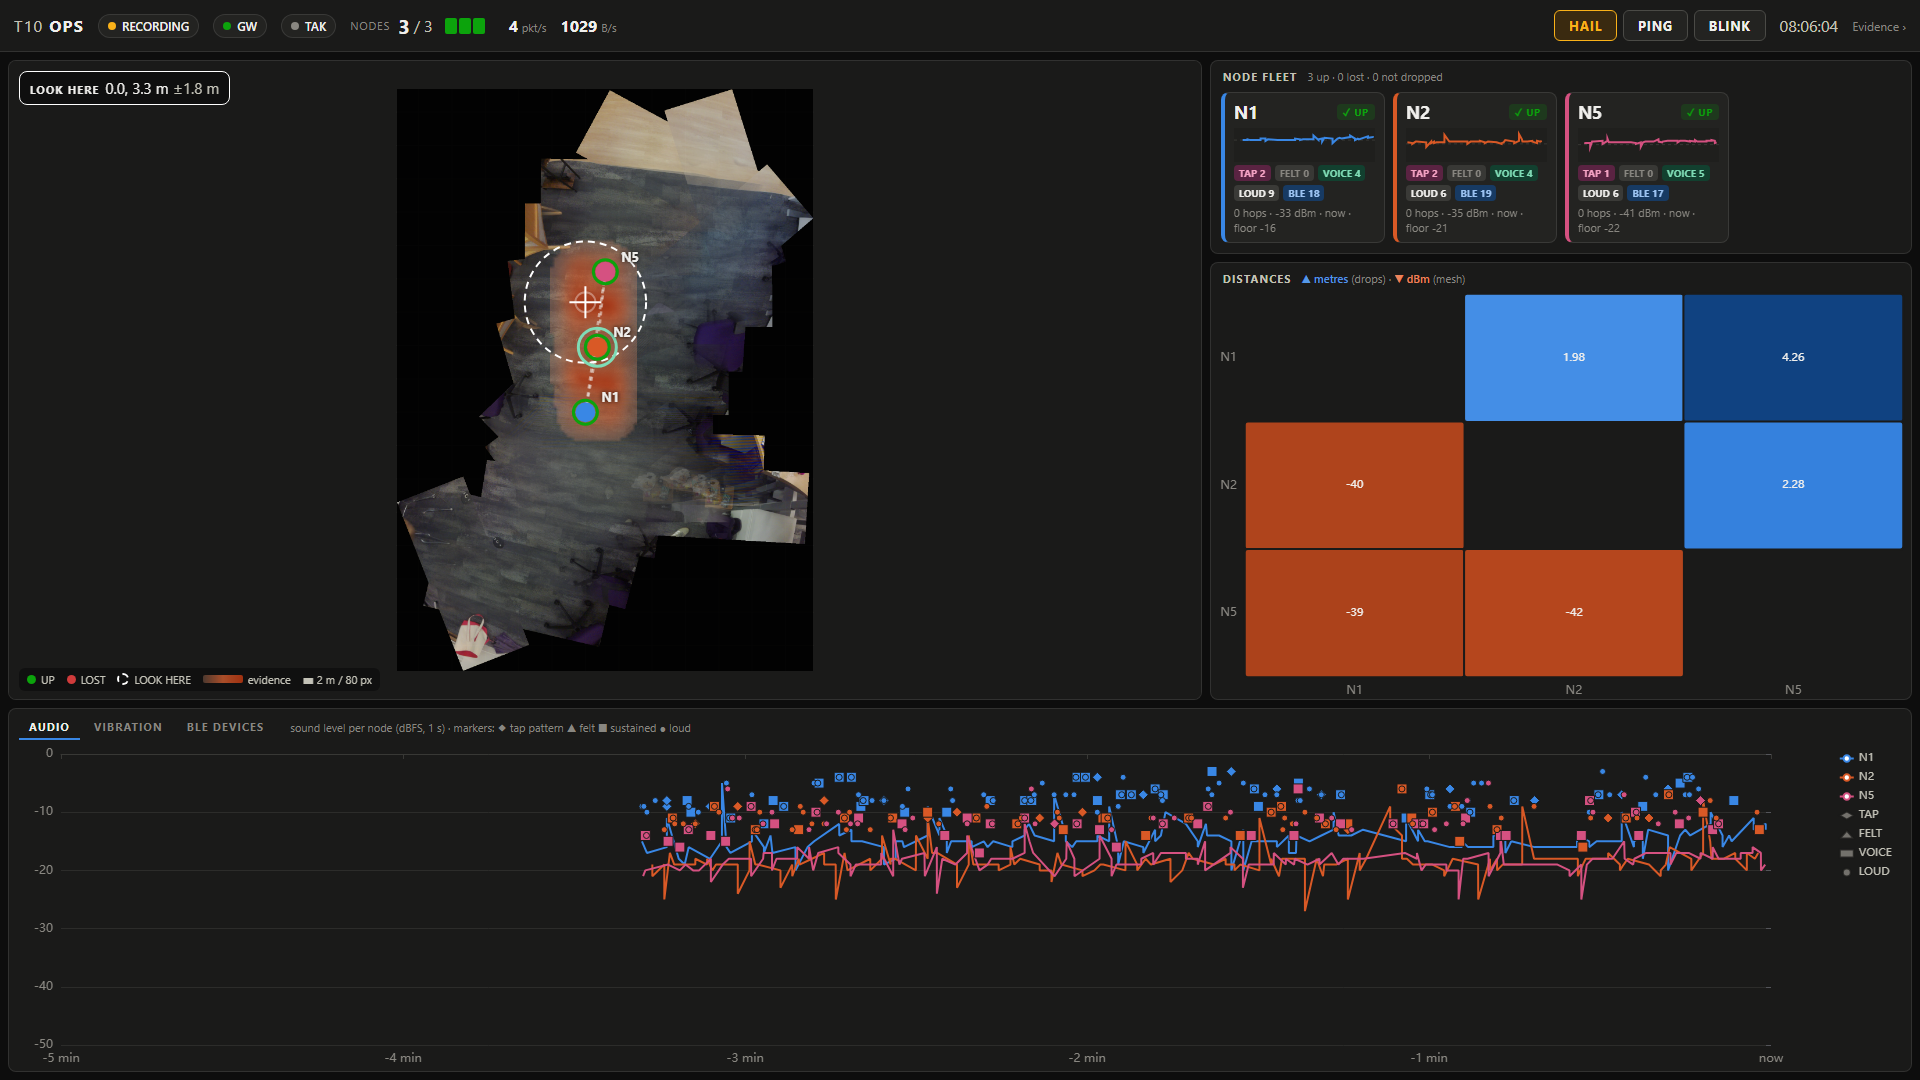
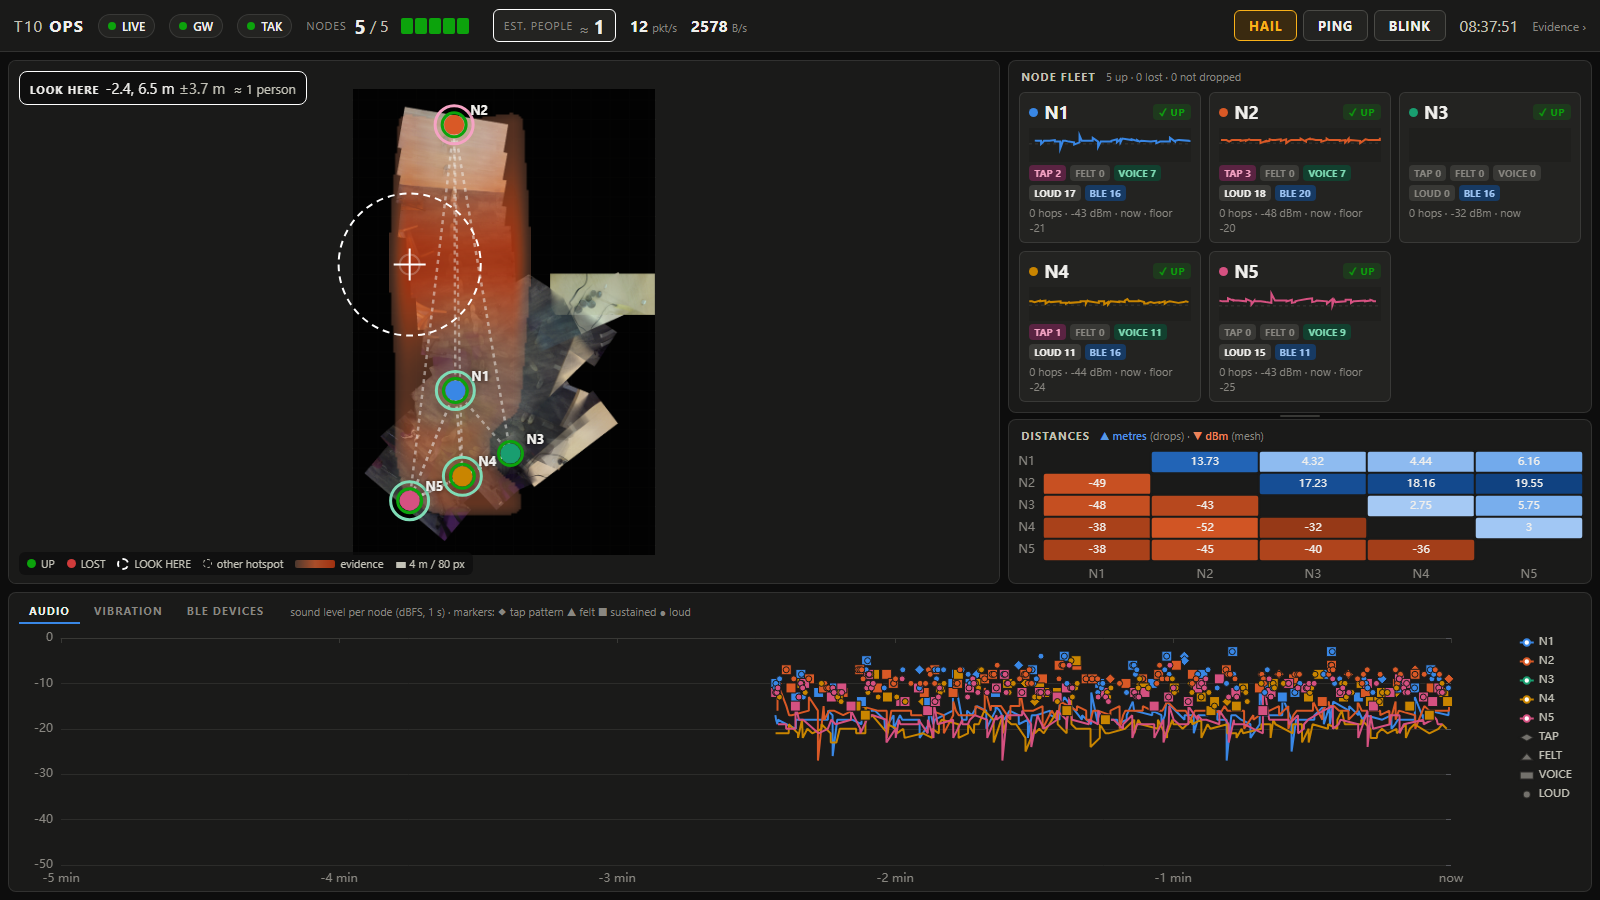
Ops dashboard: rough people estimate (separate hotspots), resizable fleet/matrix, plainer node cards

diff --git a/ui/ops.js b/ui/ops.js
@@ -52,6 +52,13 @@
     $("n-bar").innerHTML = d.dropped.map(i =>
       `<i class="${d.operational.includes(i) ? "ok" : "bad"}" title="N${i} ${d.operational.includes(i) ? "up" : "lost"}"></i>`).join("");
     $("n-extra").textContent = d.heard_not_dropped.length ? `+${d.heard_not_dropped.length} not dropped` : "";
+    // null while the room background is being learned; shown as the median of the last 10 s so it doesn't flicker
+    const raw = d.heat ? d.heat.people_est : 0;
+    st.ppl = raw == null ? [] : (st.ppl || []).concat(raw).slice(-10);
+    const ppl = raw == null ? null : st.ppl.slice().sort((a, b) => a - b)[Math.floor(st.ppl.length / 2)];
+    st.pplShown = ppl;
+    $("ppl").textContent = ppl == null ? "…" : ppl;
+    $("people").classList.toggle("on", ppl > 0);
     $("pps").textContent = d.packets_per_s;
     $("bps").textContent = d.bytes_per_s;
     $("clock").textContent = new Date(d.t * 1000).toLocaleTimeString([], { hour12: false });
@@ -192,6 +199,15 @@
       ctx.beginPath(); ctx.moveTo(cx - 16 * dpr, cy); ctx.lineTo(cx + 16 * dpr, cy); ctx.moveTo(cx, cy - 16 * dpr); ctx.lineTo(cx, cy + 16 * dpr); ctx.stroke();
     }
 
+    // other hotspots (each counts toward EST. PEOPLE): smaller dashed rings
+    ((h && h.people_est && h.sources) || []).slice(1).forEach((q, k) => {
+      const cx = X(q.x), cy = Y(q.y);
+      ctx.strokeStyle = INK2; ctx.lineWidth = 1.5 * dpr; ctx.setLineDash([5 * dpr, 4 * dpr]);
+      ctx.beginPath(); ctx.arc(cx, cy, 13 * dpr, 0, 7); ctx.stroke(); ctx.setLineDash([]);
+      ctx.font = `700 ${11 * dpr}px system-ui, sans-serif`; ctx.fillStyle = INK2; ctx.textAlign = "center";
+      ctx.fillText(String(k + 2), cx, cy + 4 * dpr); ctx.textAlign = "start";
+    });
+
     // nodes: identity colour fill, status ring, flash ring on a fresh cue
     st.hit = [];
     const now = d.t;
@@ -219,7 +235,11 @@
 
     // overlay pills
     $("look").hidden = !pk;
-    if (pk) $("look").innerHTML = `<b>LOOK HERE</b>${pk.x.toFixed(1)}, ${pk.y.toFixed(1)} m<span class="unc">±${pk.radius.toFixed(1)} m</span>`;
+    if (pk) {
+      const n = st.pplShown;
+      $("look").innerHTML = `<b>LOOK HERE</b>${pk.x.toFixed(1)}, ${pk.y.toFixed(1)} m<span class="unc">±${pk.radius.toFixed(1)} m</span>` +
+        (n ? `<span class="ppl">≈ ${n} ${n === 1 ? "person" : "people"}</span>` : "");
+    }
     const ha = h && h.hail_age;
     $("hail").hidden = ha == null;
     if (ha != null) {
@@ -255,7 +275,7 @@
     if (box.dataset.key !== key) {
       box.dataset.key = key;
       box.innerHTML = order.map(n => `<div class="tile" data-id="${n.id}" style="--c:${colorOf(n.id)}">
-        <div class="t-head"><span class="id">N${n.id}</span><span class="st"></span></div>
+        <div class="t-head"><i class="sw"></i><span class="id">N${n.id}</span><span class="st"></span></div>
         <canvas class="spark"></canvas>
         <div class="cues"></div><div class="t-foot"></div></div>`).join("") ||
         `<p class="muted">No nodes heard yet.</p>`;
@@ -405,6 +425,28 @@
     $("tabnote").textContent = note;
     sx.setOption(opt, { notMerge: true });
   }
+
+  // ---------------------------------------------------------------- fleet / matrix splitter (remembered per browser)
+  const mainEl = document.querySelector("main"), fleetEl = $("fleet");
+  function setFleetH(px) {
+    if (px == null) { mainEl.style.removeProperty("--fleet-h"); mainEl.classList.remove("sized"); }
+    else { mainEl.style.setProperty("--fleet-h", px + "px"); mainEl.classList.add("sized"); }
+    mx.resize();
+  }
+  try { const v = +localStorage.getItem("t10_fleet_h"); if (v) setFleetH(v); } catch (e) { /* no storage */ }
+  $("split").addEventListener("pointerdown", e => {
+    e.preventDefault();
+    const top = fleetEl.getBoundingClientRect().top, mapB = $("map").getBoundingClientRect().bottom;
+    document.body.classList.add("dragging");
+    const move = ev => setFleetH(Math.round(Math.max(90, Math.min(ev.clientY - top, mapB - top - 160))));
+    const up = () => {
+      document.body.classList.remove("dragging");
+      window.removeEventListener("pointermove", move); window.removeEventListener("pointerup", up);
+      try { localStorage.setItem("t10_fleet_h", parseInt(mainEl.style.getPropertyValue("--fleet-h")) || ""); } catch (e) { /* ignore */ }
+    };
+    window.addEventListener("pointermove", move); window.addEventListener("pointerup", up);
+  });
+  $("split").addEventListener("dblclick", () => { setFleetH(null); try { localStorage.removeItem("t10_fleet_h"); } catch (e) { /* ignore */ } });
 
   window.addEventListener("resize", () => { mx.resize(); sx.resize(); drawMap(); if (st.d) tiles(st.d, true); });
 })();

diff --git a/ui/ops.css b/ui/ops.css
@@ -48,6 +48,12 @@ button { font: inherit; cursor: pointer; }
 #n-bar i.ok { background: var(--good); }
 #n-bar i.bad { background: var(--critical); }
 #n-extra { margin-left: 6px; font-size: 12px; }
+.people { display: flex; align-items: center; gap: 6px; padding: 2px 10px; border-radius: 6px;
+  background: var(--surface-2); border: 1px solid var(--ring); cursor: help; }
+.people .lbl { color: var(--muted); font-size: 11px; letter-spacing: .08em; }
+.people b { font-size: 20px; font-variant-numeric: tabular-nums; }
+.people b::before { content: "≈ "; font-weight: 400; color: var(--muted); font-size: 15px; }
+.people.on { border-color: #fff; }
 .kpi { display: flex; align-items: baseline; gap: 4px; }
 .kpi b { font-size: 16px; font-variant-numeric: tabular-nums; }
 .kpi span { color: var(--muted); font-size: 11px; }
@@ -65,8 +71,10 @@ button { font: inherit; cursor: pointer; }
 main {
   display: grid; gap: 8px; padding: 8px; min-height: 0;
   grid-template-columns: minmax(0, 1.7fr) minmax(330px, 1fr);
-  grid-template-rows: auto minmax(0, 1fr) 36%;  /* fleet sized to its tiles; the matrix takes the rest */
-  grid-template-areas: "map fleet" "map matrix" "sens sens";
+  /* fleet sized to its tiles (or dragged, --fleet-h); the matrix takes the rest */
+  grid-template-rows: var(--fleet-h, auto) 6px minmax(140px, 1fr) 36%;
+  grid-template-areas: "map fleet" "map split" "map matrix" "sens sens";
+  row-gap: 0;
 }
 .panel { background: var(--surface); border: 1px solid var(--ring); border-radius: 8px; min-height: 0; min-width: 0;
   position: relative; display: flex; flex-direction: column; overflow: hidden; }
@@ -76,7 +84,15 @@ main {
 .panel h2 b.d { color: #ec835a; font-weight: 600; }
 .chart { flex: 1; min-height: 0; }
 #map { grid-area: map; }
-#fleet { grid-area: fleet; max-height: 46vh; }
+#fleet { grid-area: fleet; max-height: 46vh; min-height: 90px; }
+main.sized #fleet { max-height: none; }
+#map { margin-bottom: 8px; }
+#split { grid-area: split; cursor: row-resize; position: relative; }
+#split::after { content: ""; position: absolute; left: 50%; top: 2px; width: 40px; height: 2px; margin-left: -20px;
+  border-radius: 1px; background: var(--axis); }
+#split:hover::after, body.dragging #split::after { background: var(--ink-2); }
+body.dragging { cursor: row-resize; user-select: none; }
+#matrix { margin-bottom: 8px; }
 #matrix { grid-area: matrix; }
 #sensors { grid-area: sens; }
 
@@ -97,17 +113,19 @@ main {
 .dot { width: 9px; height: 9px; border-radius: 50%; display: inline-block; }
 .dot.ok { background: var(--good); } .dot.bad { background: var(--critical); }
 .ring { width: 12px; height: 12px; border-radius: 50%; border: 2px dashed #fff; display: inline-block; }
+.ring.small { width: 9px; height: 9px; border: 1.5px dashed var(--ink-2); }
+.pill.look .ppl { color: var(--ink-2); margin-left: 8px; font-size: 13px; }
 .heatkey { width: 40px; height: 8px; border-radius: 2px; display: inline-block;
   background: linear-gradient(90deg, rgba(255, 176, 138, .25), rgba(235, 104, 52, .7), rgba(176, 52, 16, .9)); }
 
 /* ---- fleet tiles ---- */
 #tiles { flex: 1; overflow-y: auto; padding: 4px 10px 10px; display: grid; gap: 8px;
   grid-template-columns: repeat(auto-fill, minmax(150px, 1fr)); align-content: start; }
-.tile { background: var(--surface-2); border: 1px solid var(--ring); border-radius: 8px; padding: 7px 9px; cursor: pointer;
-  border-left: 4px solid var(--c); }
+.tile { background: var(--surface-2); border: 1px solid var(--ring); border-radius: 6px; padding: 7px 9px; cursor: pointer; }
+.t-head .sw { width: 9px; height: 9px; border-radius: 50%; background: var(--c); flex: none; }
 .tile.sel { outline: 2px solid var(--ink); }
 .tile.lost { opacity: .75; }
-.tile.ghost { border-style: dashed; border-left-style: solid; opacity: .7; }
+.tile.ghost { border-style: dashed; opacity: .7; }
 .t-head { display: flex; align-items: center; gap: 6px; }
 .t-head .id { font-size: 18px; font-weight: 700; }
 .st { font-size: 10px; font-weight: 700; letter-spacing: .06em; padding: 1px 6px; border-radius: 4px; margin-left: auto; }
@@ -138,5 +156,6 @@ main {
 @media (max-width: 1100px) {
   body { overflow: auto; }
   main { grid-template-columns: 1fr; grid-template-rows: 60vh auto 280px 320px;
-    grid-template-areas: "map" "fleet" "matrix" "sens"; }
+    grid-template-areas: "map" "fleet" "matrix" "sens"; row-gap: 8px; }
+  #split { display: none; }
 }

diff --git a/ui/ops.html b/ui/ops.html
@@ -17,6 +17,7 @@
       <span class="lbl">NODES</span><b id="n-up">0</b><span class="of">/</span><span id="n-drop">0</span>
       <div id="n-bar"></div><span id="n-extra" class="muted"></span>
     </div>
+    <div class="people" id="people" title="Rough estimate: separate evidence hotspots on the map. Not a headcount."><span class="lbl">EST. PEOPLE</span><b id="ppl">0</b></div>
     <div class="kpi"><b id="pps">0</b><span>pkt/s</span></div>
     <div class="kpi"><b id="bps">0</b><span>B/s</span></div>
     <div class="cmds">
@@ -38,7 +39,7 @@
       </div>
       <div class="ovl bl legend">
         <span><i class="dot ok"></i>UP</span><span><i class="dot bad"></i>LOST</span>
-        <span><i class="ring"></i>LOOK HERE</span><span><i class="heatkey"></i>evidence</span>
+        <span><i class="ring"></i>LOOK HERE</span><span><i class="ring small"></i>other hotspot</span><span><i class="heatkey"></i>evidence</span>
         <span id="scale"></span>
       </div>
     </section>
@@ -47,6 +48,8 @@
       <h2>NODE FLEET <span class="muted" id="fleet-sub"></span></h2>
       <div id="tiles"></div>
     </section>
+
+    <div id="split" title="Drag to resize · double-click to reset"></div>
 
     <section id="matrix" class="panel">
       <h2>DISTANCES <span class="muted"><b class="m">▲ metres</b> (drops) · <b class="d">▼ dBm</b> (mesh)</span></h2>

diff --git a/fusion/heatmap.py b/fusion/heatmap.py
@@ -67,6 +67,11 @@ ALIVE_S = 6.0
 KIND_W = {"TAP_PATTERN": 1.0, "VIBRATION": 1.0, "LOUD": 0.3, "VOICE_LIKE": 0.2}
 SNR_LO, SNR_HI = 8.0, 20.0     # mic-only weight ramps from 0.1 at 8 dB over floor to 1.0 at 20 dB
 OUTSIDE_SIGMA_M = 0.5          # prior: sources are inside the area the nodes were dropped around
+# Rough people count = separate evidence hotspots: local maxima (within LOCAL_M) at least HOT_FRAC of the main
+# peak, at least SEP_M from a stronger one, AND with a valley between them (the heat on the straight line between
+# the two dips below VALLEY_FRAC of the weaker one). A broad blob or a ridge counts once; two tappers ~1.5 m+
+# apart count twice. Not reported while the room background is still being learned (warm-up).
+LOCAL_M, HOT_FRAC, SEP_M, VALLEY_FRAC = 0.5, 0.5, 1.5, 0.6
 HAIL_REPLY = (3.5, 13.5)  # seconds after HAIL: node blanking ends ~3.5 s, listen ~10 s
 HAIL_BOOST = 2.0
 
@@ -241,6 +246,8 @@ class Fusion:
                 spread = float(np.sqrt(((self.gx[X] - self.gx[ix]) ** 2 + (self.gy[Y] - self.gy[iy]) ** 2).mean()))
                 peak = {"x": round(float(self.gx[ix]), 2), "y": round(float(self.gy[iy]), 2),
                         "strength": round(hmax, 2), "radius": round(max(spread, GRID_M), 2)}
+            warm = self.use_bg and (now - self.started) < BG_HALF_LIFE_S
+            sources = self._hotspots(h, hmax) if peak else []
             gain = self.gains()
             hail_age = (now - self.hail_t) if self.hail_t else None
             return {
@@ -248,6 +255,7 @@ class Fusion:
                 "nx": len(self.gx), "ny": len(self.gy),
                 "heat": np.round(h / hmax, 3).ravel().tolist() if hmax > 0 else [],
                 "hmax": round(hmax, 3), "peak": peak,
+                "sources": sources, "people_est": None if warm else len(sources),
                 "nodes": [{"id": i, "x": float(p[0]), "y": float(p[1]), "alive": self.alive(i, now),
                            "floor": self.nodes[i]["floor"], "gain": round(gain[i], 1),
                            "rssi": self.nodes[i]["rssi"], "hops": self.nodes[i]["hops"],
@@ -258,6 +266,32 @@ class Fusion:
                 "unknown": sorted(i for i, t in self.unknown.items() if now - t < ALIVE_S),  # heard, not placed
                 "warmup": round(max(0.0, BG_HALF_LIFE_S - (now - self.started))) if self.use_bg else 0,
             }
+
+    def _hotspots(self, h, hmax):
+        """Separate evidence hotspots, strongest first: [{"x", "y", "strength"}] (strength relative to the peak)."""
+        k = max(1, int(round(LOCAL_M / GRID_M)))
+        p = np.pad(h, k, constant_values=0.0)
+        local = np.zeros_like(h)
+        for dy in range(2 * k + 1):  # maximum filter by shifted copies (no scipy)
+            for dx in range(2 * k + 1):
+                np.maximum(local, p[dy:dy + h.shape[0], dx:dx + h.shape[1]], out=local)
+        Y, X = np.nonzero((h >= local) & (h >= HOT_FRAC * hmax))
+        picked = []  # (row, col)
+        for i in np.argsort(-h[Y, X]):
+            r, c = int(Y[i]), int(X[i])
+            if all(self._separate(h, (r, c), q) for q in picked):
+                picked.append((r, c))
+        return [{"x": round(float(self.gx[c]), 2), "y": round(float(self.gy[r]), 2),
+                 "strength": round(float(h[r, c] / hmax), 2)} for r, c in picked]
+
+    def _separate(self, h, a, b):
+        """Far enough apart, with a valley between: two hotspots, not one blob or ridge."""
+        if ((a[0] - b[0]) ** 2 + (a[1] - b[1]) ** 2) * GRID_M ** 2 < SEP_M ** 2:
+            return False
+        n = max(abs(a[0] - b[0]), abs(a[1] - b[1])) + 1
+        rows = np.rint(np.linspace(a[0], b[0], n)).astype(int)
+        cols = np.rint(np.linspace(a[1], b[1], n)).astype(int)
+        return float(h[rows, cols].min()) < VALLEY_FRAC * min(float(h[a]), float(h[b]))
 
     def reset(self):
         with self.lock:

diff --git a/tests/test_ops.py b/tests/test_ops.py
@@ -77,7 +77,39 @@ class OpsPictureTest(unittest.TestCase):
         d = client.get("/ops").json()
         self.assertEqual(d["operational"], [1])
         self.assertEqual(d["history"]["1"]["audio"][0][1], -20)
-        self.assertEqual(sorted(d["heat"]), sorted(["bounds", "res", "nx", "ny", "heat", "peak", "hail_age", "warmup"]))
+        self.assertEqual(sorted(d["heat"]), sorted(["bounds", "res", "nx", "ny", "heat", "peak", "sources", "people_est",
+                                                    "hail_age", "warmup"]))
+
+
+class PeopleEstimateTest(unittest.TestCase):
+    """EST. PEOPLE = separate evidence hotspots (rough): broad blobs count once, close or weak spots don't add."""
+
+    def heat(self, *blobs):
+        import numpy as np
+
+        from fusion.heatmap import Fusion
+
+        f = Fusion({1: (0, 0), 2: (4, 0), 3: (0, 4)}, use_bg=False)
+        X, Y = np.meshgrid(f.gx, f.gy)
+        f.heat = sum(a * np.exp(-((X - x) ** 2 + (Y - y) ** 2) / (2 * s * s)) for a, x, y, s in blobs)
+        return f.snapshot(0)
+
+    def test_counts(self):
+        two = self.heat((2.0, 1, 1, 0.6), (1.6, 3.5, 3, 0.6))
+        self.assertEqual(two["people_est"], 2)
+        self.assertEqual((two["sources"][0]["x"], two["sources"][0]["y"]), (two["peak"]["x"], two["peak"]["y"]))
+        self.assertEqual(self.heat((2.0, 1, 1, 1.5))["people_est"], 1)                     # one broad blob
+        self.assertEqual(self.heat((2.0, 1, 1, 0.6), (1.8, 1.8, 1, 0.6))["people_est"], 1)  # 0.8 m apart: one
+        self.assertEqual(self.heat((2.0, 1, 1, 0.6), (0.5, 3.5, 3, 0.6))["people_est"], 1)  # weak second
+        self.assertEqual(self.heat((0.0, 1, 1, 0.6))["people_est"], 0)                     # nothing
+        ridge = [(1.0 + 0.15 * (k % 2), 0, k * 0.5, 1.2) for k in range(9)]               # bumpy ridge (spread-out nodes)
+        self.assertEqual(self.heat(*ridge)["people_est"], 1)
+
+    def test_not_reported_while_learning_the_room(self):
+        from fusion.heatmap import Fusion
+
+        f = Fusion({1: (0, 0), 2: (4, 0)})
+        self.assertIsNone(f.snapshot(f.started + 5)["people_est"])
 
 
 class RoutesTest(unittest.TestCase):

diff --git a/fusion/server.py b/fusion/server.py
@@ -452,7 +452,7 @@ def main(argv=None):
     return 0
 
 
-HEAT_KEYS = ("bounds", "res", "nx", "ny", "heat", "peak", "hail_age", "warmup")
+HEAT_KEYS = ("bounds", "res", "nx", "ny", "heat", "peak", "sources", "people_est", "hail_age", "warmup")
 
 
 def build_ops(snap, heat, positions, series, mosaic_url, now_ms):

diff --git a/docs/DECISIONS.md b/docs/DECISIONS.md
@@ -53,6 +53,7 @@ One line per decision: date/time, decision, why. Newest at the bottom.
 - 2026-11-08 ~07:10: **Node callsigns stay fixed ("T10 N2", "T10 N2 LOST"); the last cue goes in the remarks.** Why: PR #14 changed the callsign per cue (TAP/VOICE/FELT), and every change re-sends the marker, which is what crashes WinTAK when a details pane is open.
 - 2026-11-08 ~07:10: **HAIL/PING/BLINK are refused (409) while the gateway is unplugged, so nothing is queued to go out late.** Why: a HAIL sent minutes late beeps at the wrong time and corrupts the heatmap's HAIL-reply window.
 - 2026-11-08 ~08:10: **Ops dashboard at `/` (`ui/ops.html`, data from `GET /ops`); the evidence review page moved to `/review`.** One screen, usable alongside or instead of WinTAK: the heatmap over the camera map is the main panel, plus node fleet tiles (operational / dropped, audio sparkline, cue counts), a node-distance matrix (metres from drops above the diagonal, mesh dBm below) and Audio / Vibration / BLE graphs over the last 5 min (`fusion/history.py`). HAIL/PING/BLINK only; drops stay on the camera and heatmap pages. Why: the operator needs graphics and short numbers at a glance; the review page stays for drilling into one observation.
+- 2026-11-08 ~08:40: **Rough people estimate (EST. PEOPLE) = separate evidence hotspots on the heatmap**: local maxima ≥ 50% of the main peak, ≥ 1.5 m apart, with a valley between them (the heat on the line between dips below 60% of the weaker). Not reported during the 2 min background warm-up; the dashboard shows the median of the last 10 s. Why: responders want to know roughly how many to expect. The first version (no valley test) said 5 on a live floor because a ridge between far-apart nodes had several bumps; with the valley test the same floor reads 1–2. It is a hotspot count, not a headcount: two people closer than ~1.5 m count as one, and steady noise sources can count as a person.
 
 ## What worked / didn't / unfinished
 - ✅ TAK integration (2026-11-08 ~00:15, simulator → heatmap → `tak.py` → WinTAK on the demo laptop): node markers, LOST state and "T10 DIG HERE?" render at the right place and scale, follow the heatmap peak after a HAIL, and clear when confidence drops.

diff --git a/README.md b/README.md
@@ -145,8 +145,9 @@ The heatmap model runs inside the fusion host. Every gateway line goes to both t
 ![Ops dashboard](media/screenshots/ops_dashboard.png)
 
 - **Main panel, the map:** the camera mosaic, the evidence heat, nodes in their own colour with a green (up) or red (lost) ring, mesh links (brighter = stronger), a pulsing **LOOK HERE** ring with its ± radius, and a HAIL countdown while the network listens.
-- **Header:** data source, gateway and TAK links, **nodes operational / dropped** as a segmented bar (plus nodes heard but not dropped yet), packets and bytes per second, and **HAIL / PING / BLINK**.
-- **Node fleet:** one tile per node, with status, a 60 s audio-level sparkline, cue counts for the last 30 s (TAP, FELT, VOICE, LOUD, BLE devices), hops, link dBm and last-heard age.
+- **Header:** data source, gateway and TAK links, **nodes operational / dropped** as a segmented bar (plus nodes heard but not dropped yet), **EST. PEOPLE**, packets and bytes per second, and **HAIL / PING / BLINK**.
+- **EST. PEOPLE (rough):** the number of separate evidence hotspots on the map. A spot counts if it is a local maximum ≥ 50% of the main peak, ≥ 1.5 m from a stronger one, and with a valley between them. Secondary hotspots are drawn as small numbered rings. It is not shown during the 2 min background warm-up, and it is smoothed over 10 s. It is a hotspot count, not a headcount.
+- **Node fleet** (drag the handle between the fleet and the matrix to resize them): one tile per node, with status, a 60 s audio-level sparkline, cue counts for the last 30 s (TAP, FELT, VOICE, LOUD, BLE devices), hops, link dBm and last-heard age.
 - **Distance matrix:** metres between drop positions above the diagonal; mesh link strength in dBm (the mean of both directions) below it.
 - **Sensor graphs, last 5 min, all nodes:**
   - **Audio:** sound level per node, with tap / felt / sustained / loud markers.

diff --git a/media/README.md b/media/README.md
@@ -35,7 +35,7 @@ Everything except the photos and the WinTAK screenshots is generated from the re
 |---|---|
 | `gifs/heatmap_drops_live.gif` | Heatmap page while nodes are dropped (SPACE): each node appears where the camera was, the camera map sits under the heat, no clicking |
 | `screenshots/heatmap_photo_and_drops.png` | The same, settled: evidence heat over the floor photo, nodes N1/N2/N5 at their drop points, estimate with uncertainty circle |
-| `screenshots/ops_dashboard.png` | **The ops dashboard** (`/`): map with heat, nodes and LOOK HERE; fleet tiles (3/3 up); distance matrix (m / dBm); audio graph. 3-node hall recording + walk 3 camera replay |
+| `screenshots/ops_dashboard.png` | **The ops dashboard, live on the Pi** (2026-11-08 ~08:37): 5/5 nodes dropped and up, EST. PEOPLE ≈ 1, LOOK HERE with ±3.7 m, fleet tiles, 5×5 distance matrix (m / dBm), audio graph |
 | `screenshots/camera_page.png` | The Pi camera page: live frame with drop crosshair, drop list, growing mosaic |
 | `screenshots/heatmap_real_3node_recording.png` | The heatmap on **real data**: the 3-node hall recording (`data/live_3node_test1.jsonl`) |
 | `screenshots/heatmap_simulator.png` | The built-in simulator (taps from a hidden source plus room chatter) |
